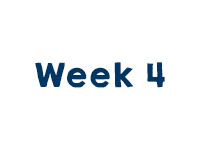
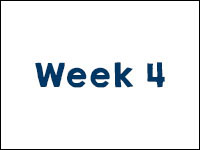
Updated week 3 of portfolio, added week 4

Changed region(s): [[0.0, 0.0, 1.0, 1.0]]

diff --git a/index.html b/index.html
@@ -56,11 +56,17 @@
 
     <hr>
     <article>
-      <h3><a href="#"><time datetime="2017-10-19">Week 3</time> - Who Knows?</a></h3>
+      <h3><a href="#"><time datetime="2017-10-19">Week 3</time> - Portfolio with CSS</a></h3>
       <img class="thumb" src="images/week3-thumb.jpg" alt="Week 3">
       <p>I got to use CSS3 to style my page, making it look more polished. CSS is the most fun of all the languages!</p>
     </article>
     
+    <hr>
+    <article>
+      <h3><a href="#"><time datetime="2017-10-26">Week 4</time> - We'll see!</a></h3>
+      <img class="thumb" src="images/week4-thumb.jpg" alt="Week 4">
+      <p>We'll probably be working on more CSS, and will put my project here.</p>
+    </article>
     <hr>
   </main>
 

diff --git a/about.html b/about.html
@@ -20,7 +20,7 @@
   </header>
   <main>
     <hr>
-    <img id="charlie" src="images/charlie-thumb.jpg" alt="Charlie the Dog">
+    <img id="charlie" src="images/charlie-thumb.jpg" alt="Charlie the Dog" title="This is Charlie the dog">
     <article>
       <h3>About Me</h3>
         <p>Hi, my name is Lauren! I'm originally from New Jersey, and I moved to the Seattle area in 2004. I live in Capitol Hill with my husband and our dog.</p>

diff --git a/styles/first-stylesheet.css b/styles/first-stylesheet.css
@@ -1,14 +1,14 @@
 /* Set font family for page */
 body {
   font-family: Arial, Helvetica, sans-serif;
-  background-color: azure;
+  background-color: aliceblue;
 }
 
 /* Style the h1 title */
 h1 {
+  font-family: "Arial Black", Gadget, sans-serif;
   color: darkblue;
-  font-size: 2rem;
-  font-weight: bolder;
+  font-size: 2.5rem;
   text-align: center;
 }
 
